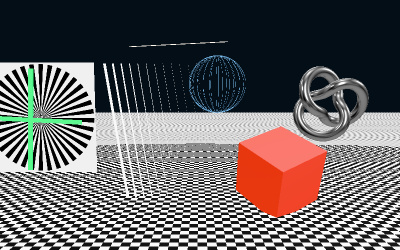
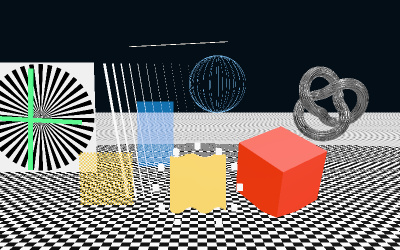
Examples: Add alpha, blending, morph, instancing and normal map cases to webgpu_postprocessing_traa_test.

Changed region(s): [[0.18, 0.392, 0.63, 0.896], [0.72, 0.252, 0.93, 0.56], [0.54, 0.868, 0.57, 0.896]]

diff --git a/examples/webgpu_postprocessing_traa_test.html b/examples/webgpu_postprocessing_traa_test.html
@@ -65,10 +65,11 @@
 
 			const motions = [ 'Static', 'Pan horizontal', 'Pan vertical', 'Orbit', 'Roll', 'Dolly', 'FOV zoom', 'Sub-pixel drift', 'Objects only' ];
 
+			const matrix = new THREE.Matrix4();
 			const views = [ 'TRAA', 'Reference', 'Split TRAA | Reference', 'Delta TRAA', 'MSAA 4×', 'Delta MSAA 4×', 'No AA', 'Delta No AA', 'Input (jittered)', 'Velocity' ];
 			const deltaGain = uniform( params.deltaGain );
 
-			let camera, referenceCamera, msaaCamera, scene, renderer, renderPipeline, scenePass, referencePass, msaaPass, traaPass, spinner;
+			let camera, referenceCamera, msaaCamera, scene, renderer, renderPipeline, scenePass, referencePass, msaaPass, traaPass, spinner, cutout, blended, morph, instances;
 			let phase = 0;
 
 			init();
@@ -340,7 +341,30 @@
 				scene.add( box );
 
 				// specular aliasing: tight highlights on high curvature
-				const knot = new THREE.Mesh( new THREE.TorusKnotGeometry( 0.35, 0.08, 256, 32 ), new THREE.MeshStandardMaterial( { color: 0xcccccc, metalness: 1, roughness: 0.05 } ) );
+				// tangent-space ripples alias the highlights at the pixel scale
+				const waveData = new Uint8Array( 256 * 256 * 4 );
+				for ( let y = 0; y < 256; y ++ ) {
+
+					for ( let x = 0; x < 256; x ++ ) {
+
+						const u = x / 256 * Math.PI * 6;
+						const v = y / 256 * Math.PI * 6;
+						const phase = u * 12 + 0.4 * Math.sin( v * 3 );
+						const nx = - 0.65 * Math.cos( phase );
+						const ny = - 0.9 * Math.cos( v * 6 ) - 0.2 * Math.cos( phase ) * Math.cos( v * 3 );
+						const length = Math.hypot( nx, ny, 1 );
+						waveData.set( [ ( nx / length * 0.5 + 0.5 ) * 255, ( ny / length * 0.5 + 0.5 ) * 255, ( 1 / length * 0.5 + 0.5 ) * 255, 255 ], ( y * 256 + x ) * 4 );
+
+					}
+
+				}
+
+				const waves = new THREE.DataTexture( waveData, 256, 256 );
+				waves.wrapS = waves.wrapT = THREE.RepeatWrapping;
+				waves.generateMipmaps = false;
+				waves.minFilter = THREE.LinearFilter;
+				waves.needsUpdate = true;
+				const knot = new THREE.Mesh( new THREE.TorusKnotGeometry( 0.35, 0.08, 256, 32 ), new THREE.MeshStandardMaterial( { color: 0xcccccc, metalness: 1, roughness: 0.05, normalMap: waves } ) );
 				knot.position.set( 2.3, 0.4, - 0.3 );
 				scene.add( knot );
 
@@ -365,6 +389,34 @@
 
 				spinner.position.set( - 2, 0.2, 0.3 );
 				scene.add( spinner );
+
+				// alpha-tested edges come from the texture, not the geometry
+				const cutoutData = new Uint8Array( 64 * 64 * 4 );
+				for ( let i = 0; i < 64 * 64; i ++ ) cutoutData.set( [ 255, 180, 30, ( ( i % 64 >> 1 ) + ( i >> 7 ) ) % 2 ? 0 : 255 ], i * 4 );
+				const cutoutMap = new THREE.DataTexture( cutoutData, 64, 64 );
+				cutoutMap.magFilter = THREE.NearestFilter;
+				cutoutMap.needsUpdate = true;
+				cutout = new THREE.Mesh( new THREE.PlaneGeometry( 0.7, 0.7 ), new THREE.MeshBasicMaterial( { map: cutoutMap, alphaTest: 0.5, side: THREE.DoubleSide } ) );
+				cutout.position.set( - 0.9, - 0.55, 0.6 );
+				scene.add( cutout );
+
+				// blended surfaces write no depth, so the history behind them is reprojected wrongly
+				blended = new THREE.Mesh( new THREE.PlaneGeometry( 0.5, 0.9 ), new THREE.MeshBasicMaterial( { color: 0x44aaff, transparent: true, opacity: 0.45, depthWrite: false } ) );
+				blended.position.set( - 0.3, 0, 0.3 );
+				scene.add( blended );
+
+				// morph and instanced motion need per-vertex velocity
+				const morphGeometry = new THREE.PlaneGeometry( 0.7, 0.7, 20, 20 );
+				const morphPosition = morphGeometry.attributes.position.clone();
+				for ( let i = 0; i < morphPosition.count; i ++ ) morphPosition.setZ( i, 0.2 * Math.sin( morphPosition.getX( i ) * 18 ) );
+				morphGeometry.morphAttributes.position = [ morphPosition ];
+				morph = new THREE.Mesh( morphGeometry, new THREE.MeshStandardMaterial( { map: cutoutMap, side: THREE.DoubleSide } ) );
+				morph.position.set( 0.3, - 0.55, 0.8 );
+				scene.add( morph );
+
+				instances = new THREE.InstancedMesh( new THREE.BoxGeometry( 0.07, 0.07, 0.07 ), new THREE.MeshStandardMaterial( { color: 0xffffff } ), 12 );
+				instances.position.copy( morph.position );
+				scene.add( instances );
 
 			}
 
@@ -395,6 +447,20 @@
 				camera.updateProjectionMatrix();
 
 				if ( params.motion !== 'Static' ) spinner.rotation.z -= frames * params.speed * 0.05;
+
+				const t = params.motion === 'Static' ? 0 : phase;
+				cutout.rotation.z = t * 0.25;
+				blended.position.x = - 0.3 + 0.6 * Math.sin( t * 1.2 );
+				morph.morphTargetInfluences[ 0 ] = 0.5 + 0.5 * Math.sin( t );
+
+				for ( let i = 0; i < 12; i ++ ) {
+
+					const angle = i * Math.PI / 6 + t * 0.5;
+					instances.setMatrixAt( i, matrix.makeTranslation( 0.5 * Math.cos( angle ), 0.5 * Math.sin( angle ), 0.2 ) );
+
+				}
+
+				instances.instanceMatrix.needsUpdate = true;
 
 			}
 
